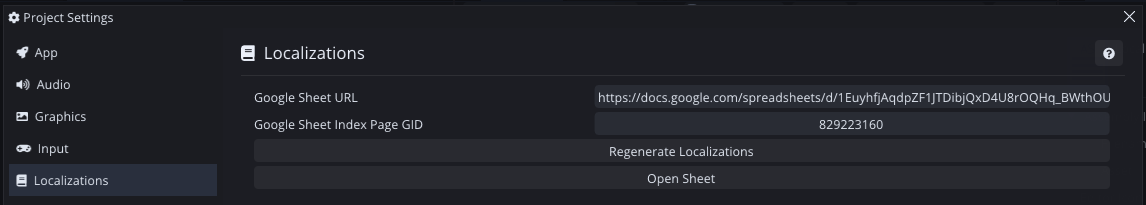
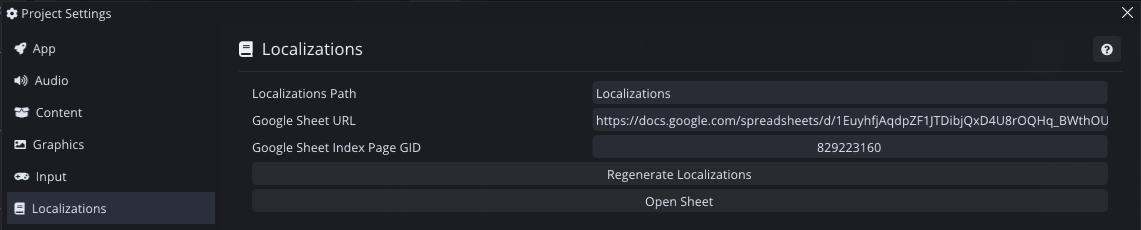
fix documentation

diff --git a/Packages/localizations/README.md b/Packages/localizations/README.md
@@ -47,7 +47,7 @@ Open the Comet Editor and navigate to **Project Settings > Localizations**.
 ### 4. Fetch Translations
 To download your data, click **Regenerate Localizations** in the Project Settings or go to **Localizations > Generate** in the main menu bar. 
 
-Once triggered, the system will download each tab as a `.csv` file into the `Assets/RuntimeAssets/Localizations` directory. Perform this action whenever you update your Google Sheet.
+Once triggered, the system will download each tab as a `.csv` file into the directory you choose at **Project Settings > Localizations > Localizations Path**. Perform this action whenever you update your Google Sheet.
 
 ![Regenerate Localizations](https://raw.githubusercontent.com/OriolCS2/CometEngineLocalizationsPackage/main/TutorialImages/Tuto4.png)
 
@@ -66,7 +66,7 @@ You can easily interact with the localization system via code using the followin
 | :--- | :--- |
 | `Language::get.currentLanguage` | Returns the currently active language. |
 | `Language::get.availableLanguages` | Returns a list of all imported languages. |
-| `Language::get.Load(string language)` | Switches the project's language at runtime. |
+| `Language::get.Load(string language)` | Switches the project's language. |
 | `Language::get.GetLocalization(string key)` | Returns the translated value for a specific key in the current language. |
 
 ---

diff --git a/README.md b/README.md
@@ -47,7 +47,7 @@ Open the Comet Editor and navigate to **Project Settings > Localizations**.
 ### 4. Fetch Translations
 To download your data, click **Regenerate Localizations** in the Project Settings or go to **Localizations > Generate** in the main menu bar. 
 
-Once triggered, the system will download each tab as a `.csv` file into the `Assets/RuntimeAssets/Localizations` directory. Perform this action whenever you update your Google Sheet.
+Once triggered, the system will download each tab as a `.csv` file into the directory you choose at **Project Settings > Localizations > Localizations Path**. Perform this action whenever you update your Google Sheet.
 
 ![Regenerate Localizations](https://raw.githubusercontent.com/OriolCS2/CometEngineLocalizationsPackage/main/TutorialImages/Tuto4.png)
 
@@ -66,7 +66,7 @@ You can easily interact with the localization system via code using the followin
 | :--- | :--- |
 | `Language::get.currentLanguage` | Returns the currently active language. |
 | `Language::get.availableLanguages` | Returns a list of all imported languages. |
-| `Language::get.Load(string language)` | Switches the project's language at runtime. |
+| `Language::get.Load(string language)` | Switches the project's language. |
 | `Language::get.GetLocalization(string key)` | Returns the translated value for a specific key in the current language. |
 
 ---
